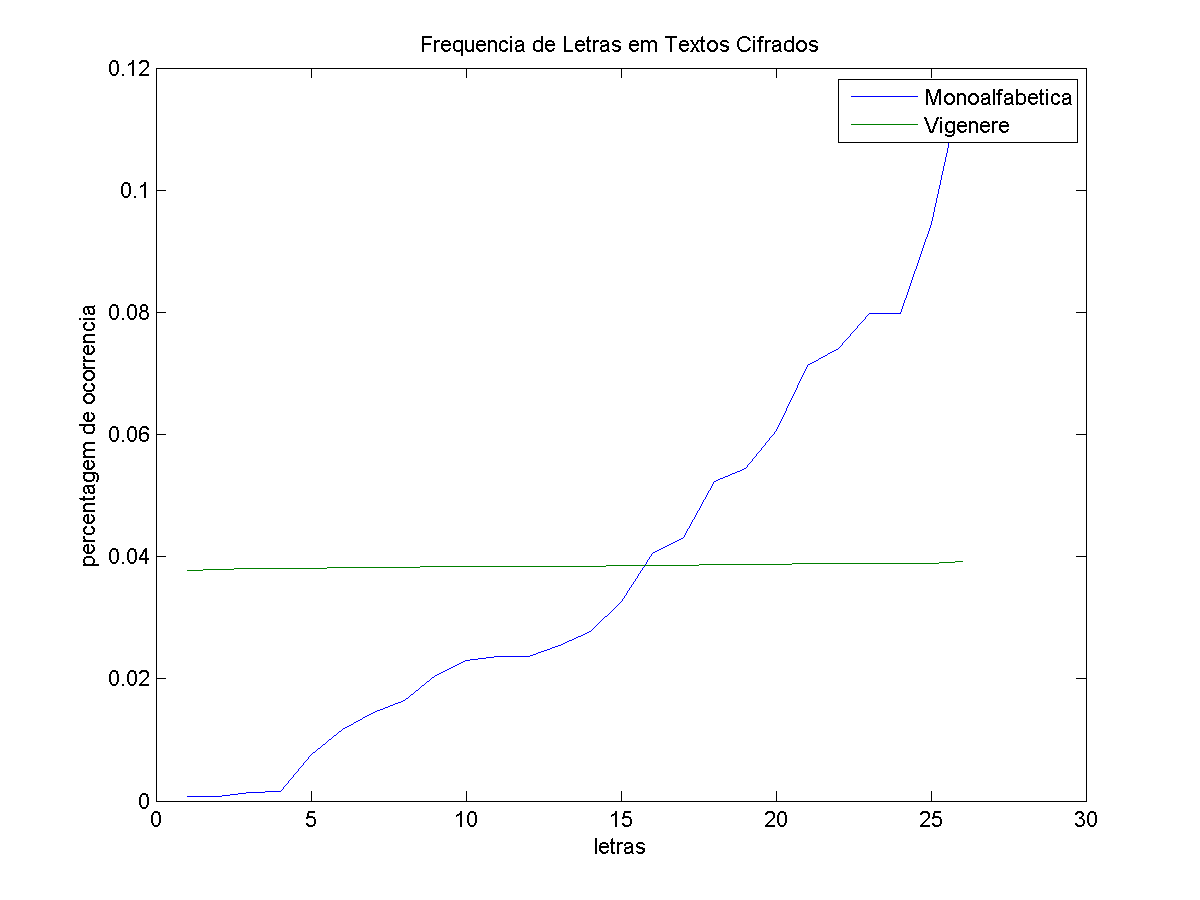
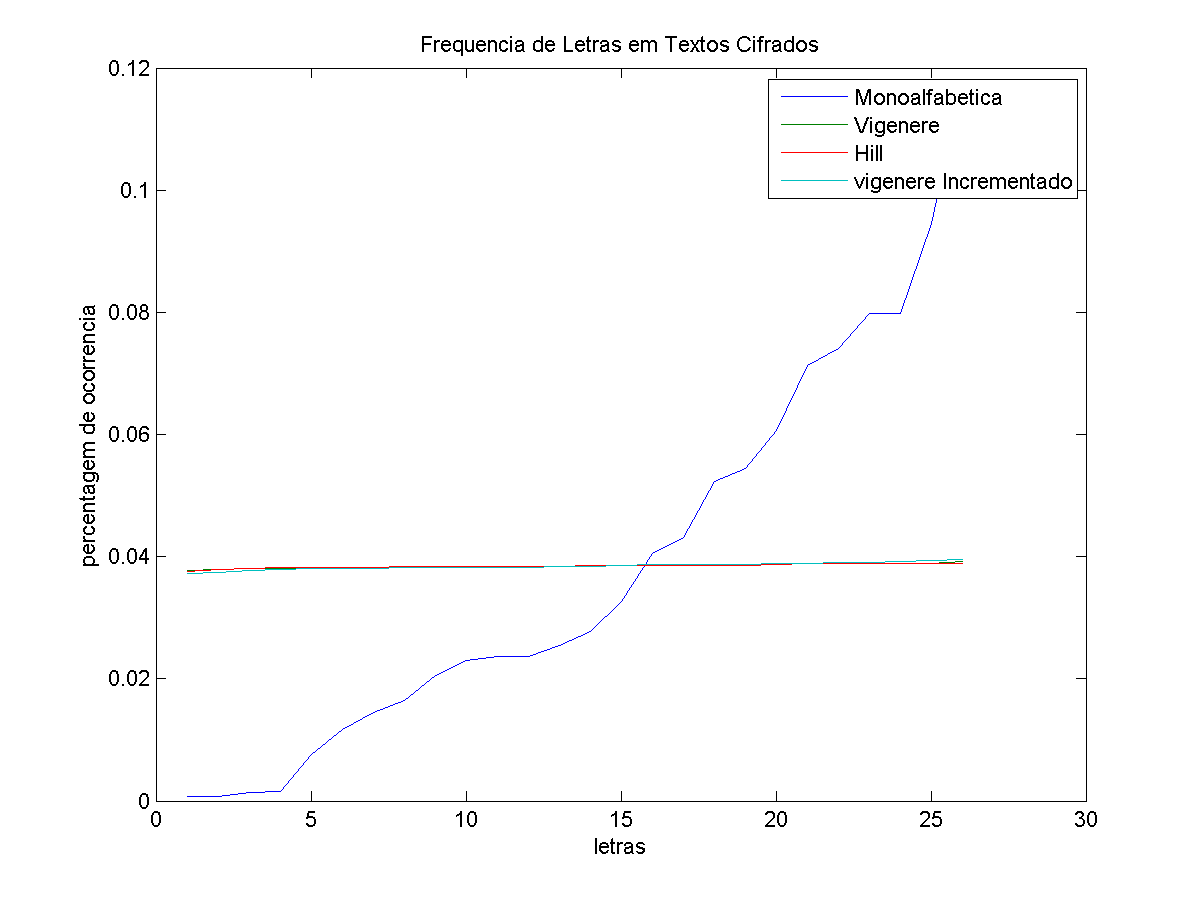
Corrigido bugs do main, hill e vegenere incrementado

Changed region(s): [[0.7092, 0.0933, 0.8942, 0.2178]]

diff --git a/mainExemplo.m b/mainExemplo.m
@@ -5,12 +5,13 @@ C = monoalfabeticaE(P,'knmporqtsvuxwzybadcfeghjil');
 [rateMono character] = countCharacters(C);
 C2 = vigenere(P,'knmporqtsvuxwzybadcfeghjil');
 [rateMono2 character] = countCharacters(C2);
-C3 = hill(P, [17, 17, 5; 21,18,21;2,2,19]);
+C3 = hill(P, randi(26, 449,449));
 [rateMono3 character] = countCharacters(C3);
-
+C4 = vigenereIncrementado(P, 'a');
+[rateMono4 character] = countCharacters(C4);
     
-plot([1:26],[rateMono;rateMono2, rateMono3]);
-legend('Monoalfabetica', 'Vigenere', 'Hill');
+plot([1:26],[rateMono; rateMono2; rateMono3; rateMono4]);
+legend('Monoalfabetica', 'Vigenere', 'Hill', 'vigenere Incrementado');
 title('Frequencia de Letras em Textos Cifrados');
 xlabel('letras');
 ylabel('percentagem de ocorrencia');

diff --git a/hill.m b/hill.m
@@ -17,14 +17,14 @@ function C = hill(P, K)
 	%calcula o teto para fazer uma matriz quadrada (automaticamente preenche o resto com zeros)
 	raiz = ceil(sqrt(length(M)));
 	%guarda o tamanho original da matriz para refazer o texto criptografado
-	original_size = length(P)
+	original_size = length(P);
 	%transforma o texto claro em matriz
 	Q = vec2mat(M,raiz);
 	M = mod(Q*K, 26)+1;
 	%transforma o resultado criptografado em vetor para o match das letras
 	P = Kdec(M(:)');
 	%remove zeros preenchidos anteriormente
-	P = (1:original_size)
+	P = P(1:original_size);
 	% Retorna para caixa alta
 	P(indexCaixaAlta) = P(indexCaixaAlta) + ('A'-'a');
 
